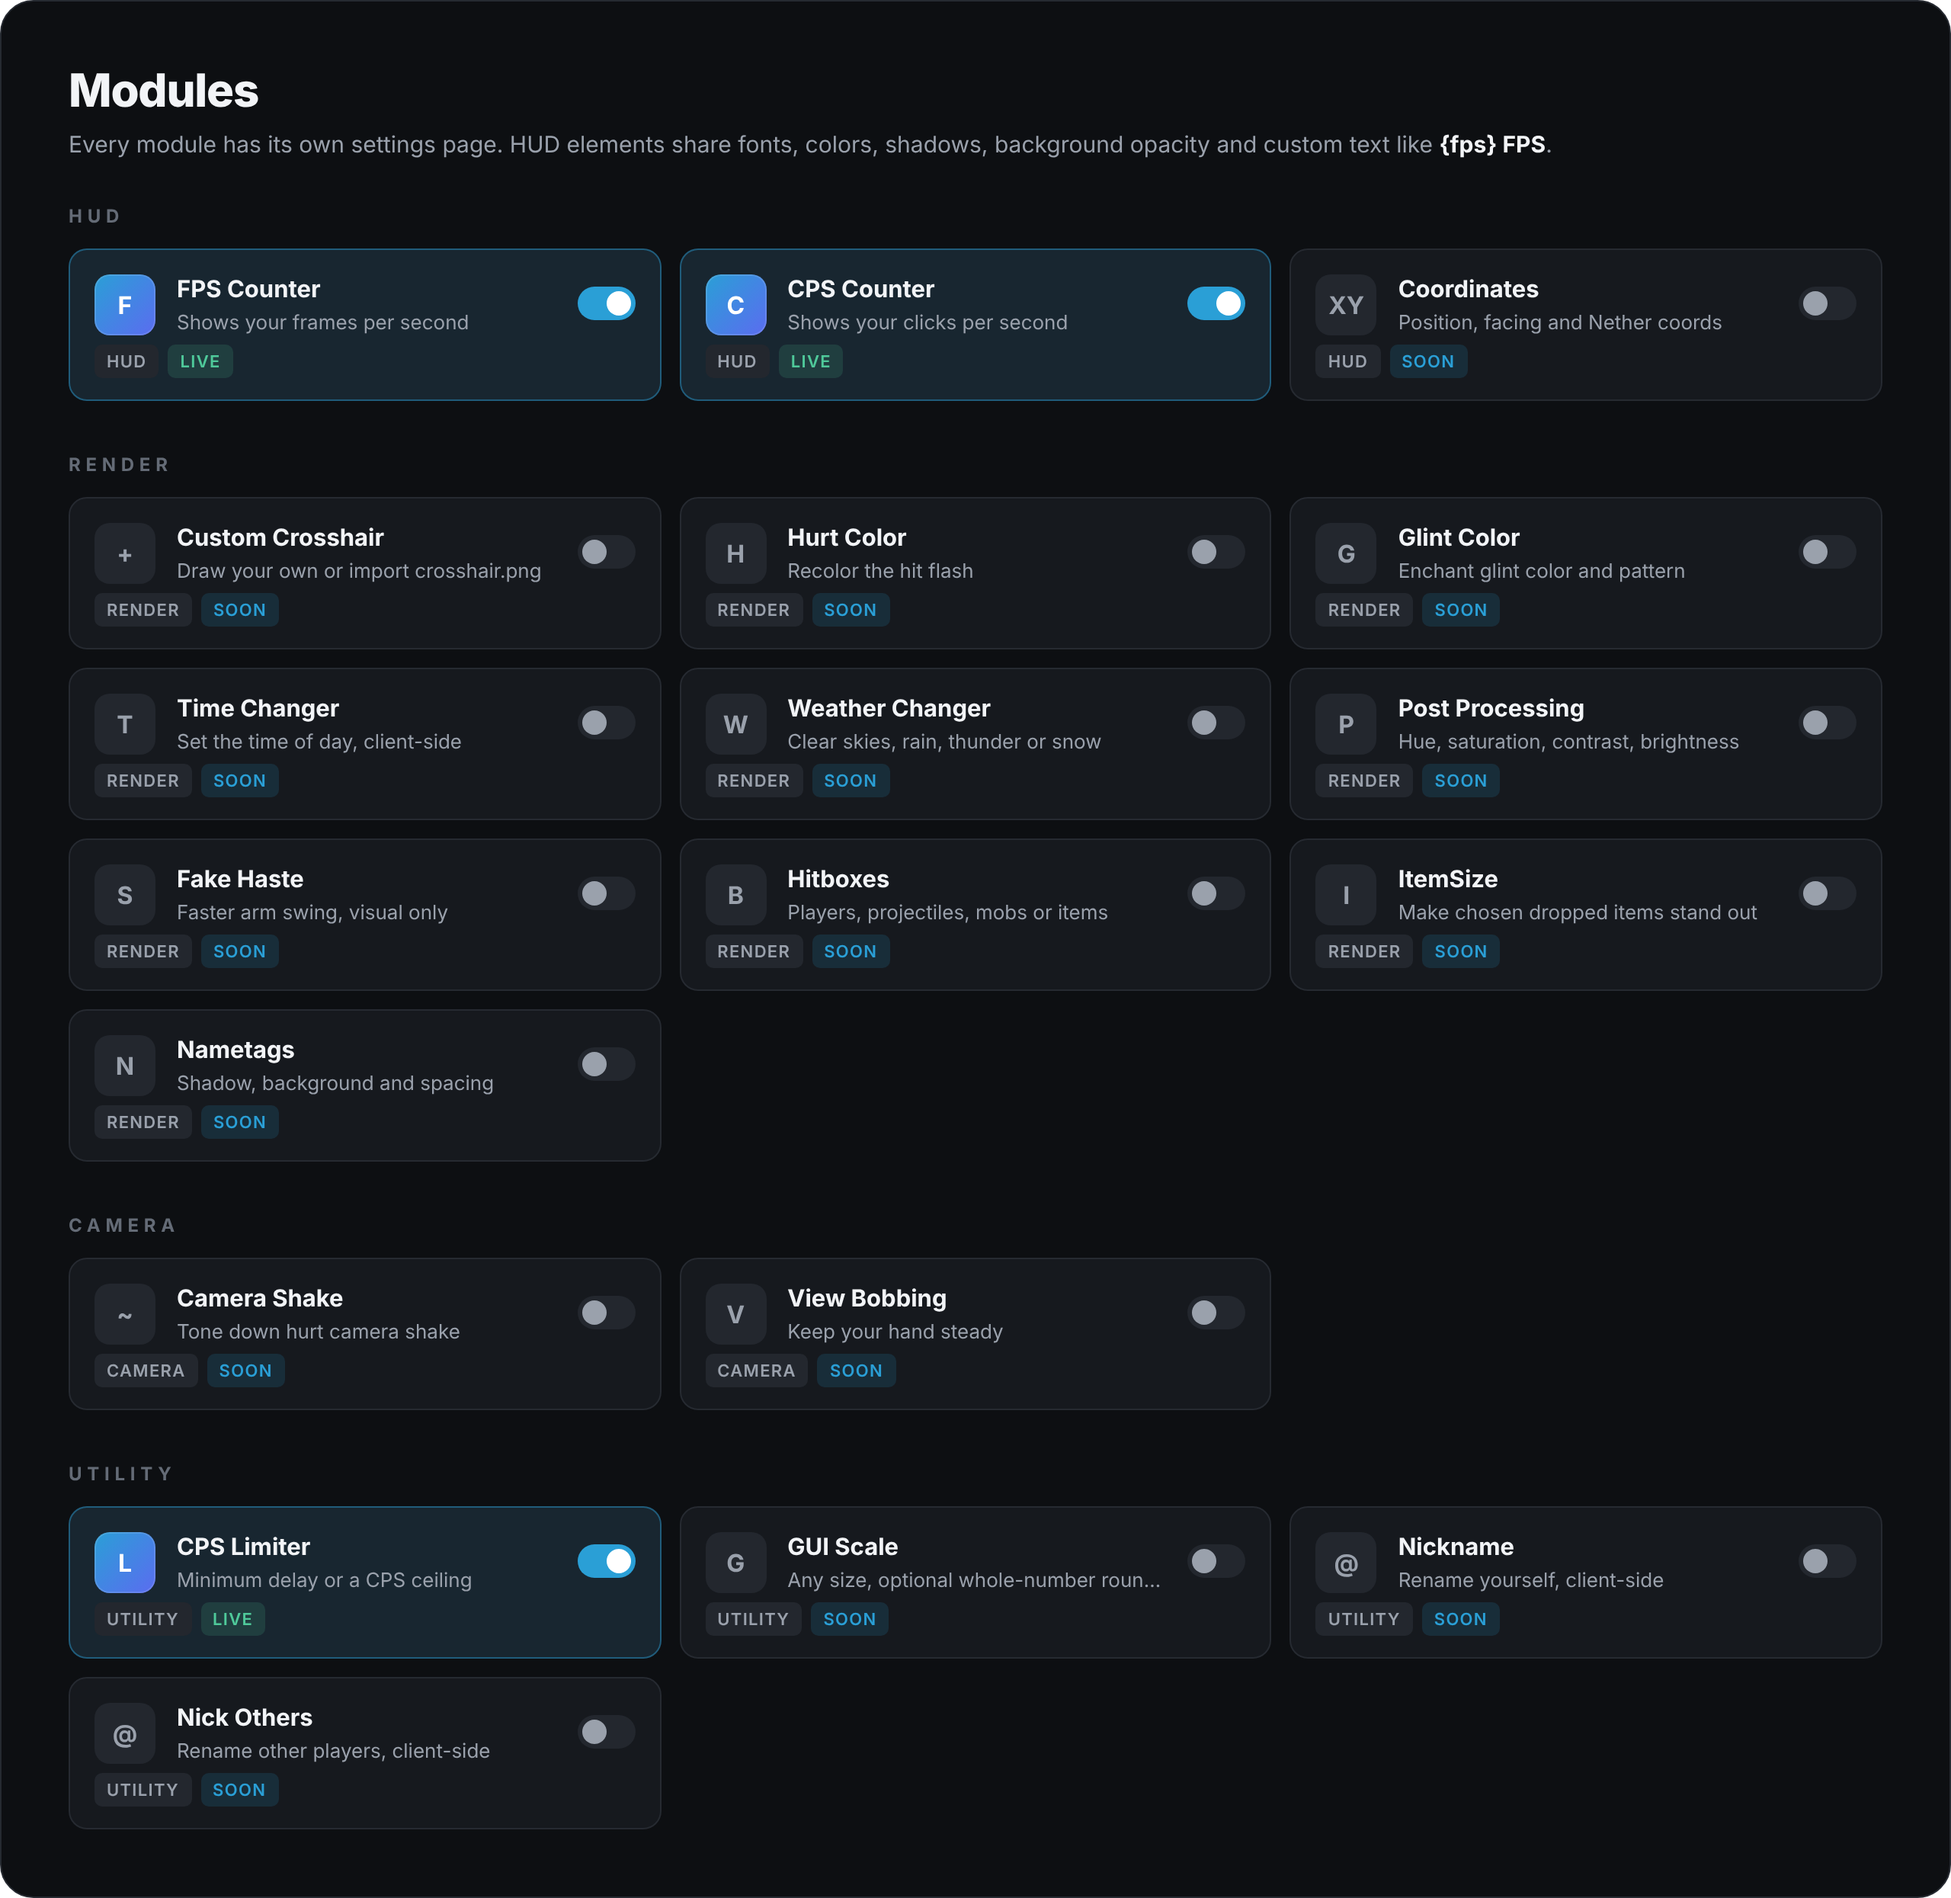
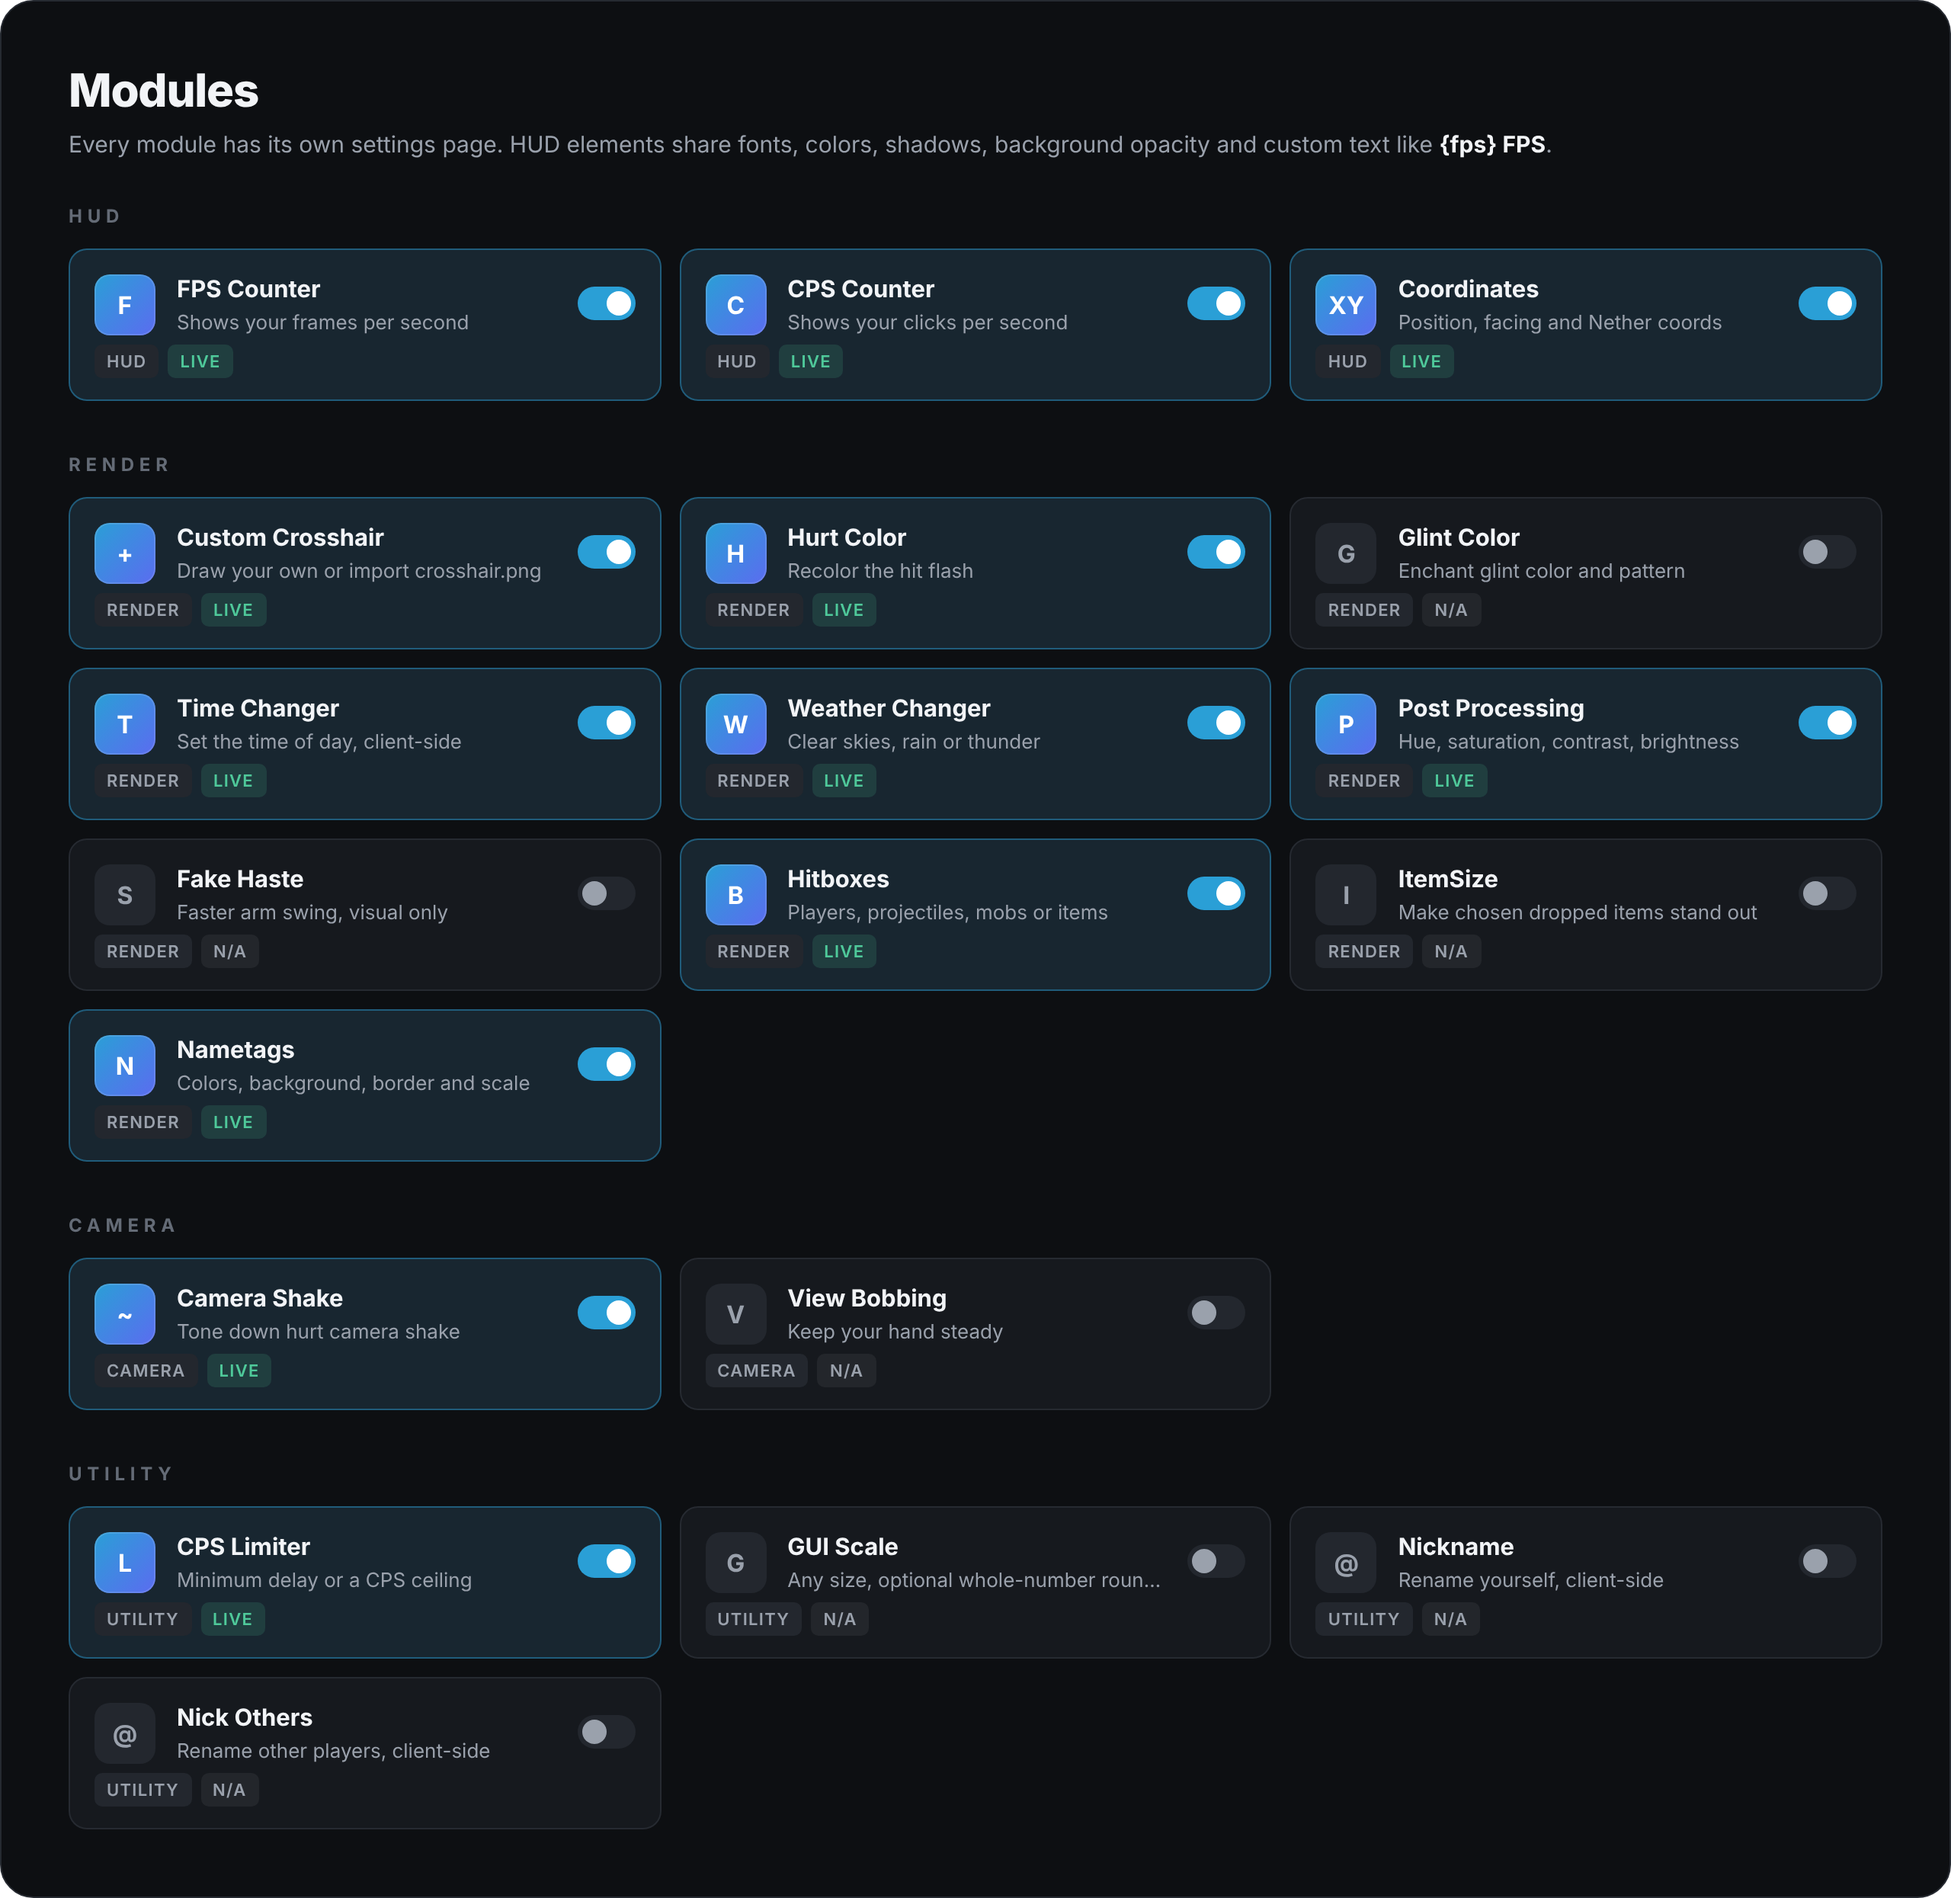
Modules now run as Cinnabar mods: updated list and FAQ
Claude-Session: https://claude.ai/code/session_01G671hkNcWvyC6noVY38WQ5

diff --git a/README.md b/README.md
@@ -50,7 +50,7 @@ of the game, with **no cheats**: everything is cosmetic or a limit on your own i
 | :---: | --- |
 | **1** | **[Download `HamsterLauncher.exe`](../../releases/latest)** from the latest release and put it anywhere. |
 | **2** | Run it. The launcher downloads Hamster Client and keeps it up to date by itself. |
-| **3** | Press **Launch**. It opens Cinnabar for you (on DirectX 12, whatever your Graphics API setting) and loads the client. |
+| **3** | Press **Launch**. It opens Cinnabar for you (on DirectX 12, whatever your Graphics API setting) with the Hamster mods loaded, then loads the client. |
 | **4** | Press **`L`** in game to open the menu. You can change the key in **Settings**. |
 
 > [!NOTE]
@@ -81,6 +81,20 @@ running on top of it too. Play on servers that allow it.
 Close Cinnabar and start it from <b>Hamster Launcher</b>, which runs the game on DirectX 12. If you
 opened Cinnabar yourself with its Graphics API set to Vulkan, the menu can't appear. If it still doesn't work, open an issue and attach
 <code>%APPDATA%\HamsterClient\hamster.log</code>.
+</details>
+
+<details>
+<summary><b>How do the modules work?</b></summary>
+<br>
+The menu and HUD are drawn by the client. Modules that change the game itself (time, weather, hurt
+color, hitboxes, nametags, post processing, camera shake, the CPS limiter) run as Cinnabar mods.
+The launcher installs them and starts Cinnabar with them already allowed, so there's nothing to
+approve in Settings → Mods, and your own mods keep working. Changing a setting in the menu applies
+in about half a second. The mods only load when Hamster Launcher starts the game, so if Cinnabar
+was already open, close it and press <b>Launch</b>.
+<br><br>
+Modules marked <b>N/A</b> need something Cinnabar doesn't let mods change yet. Their settings are
+kept, ready for when it does.
 </details>
 
 <details>
